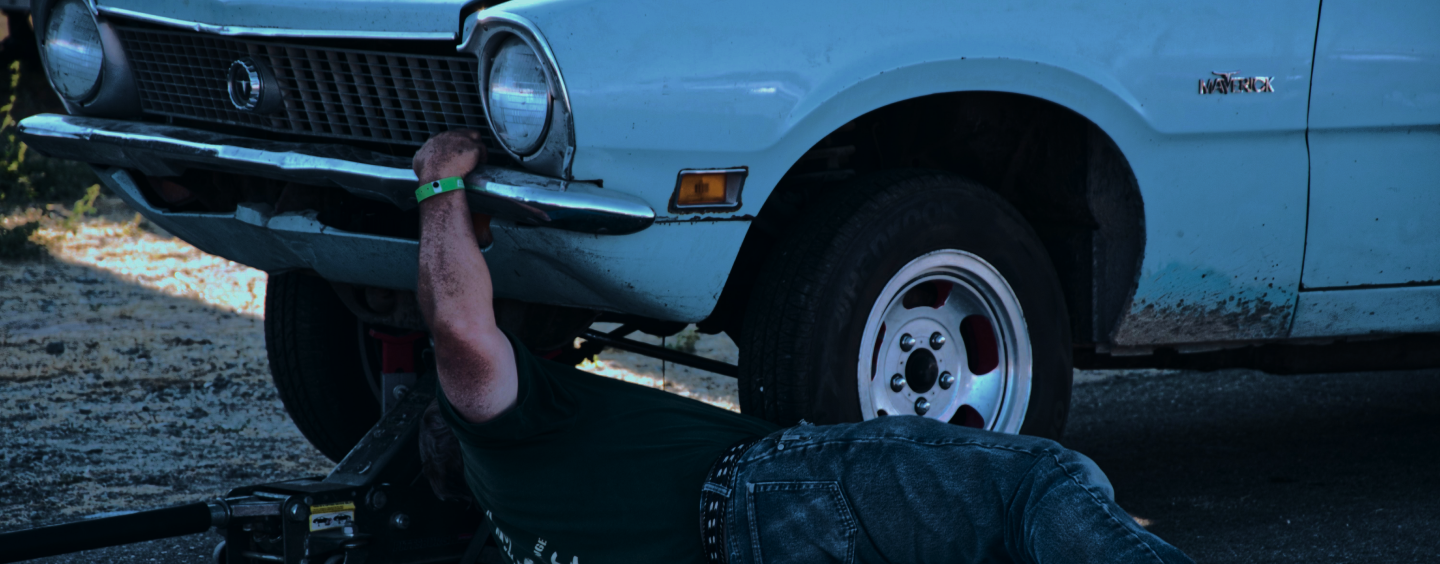
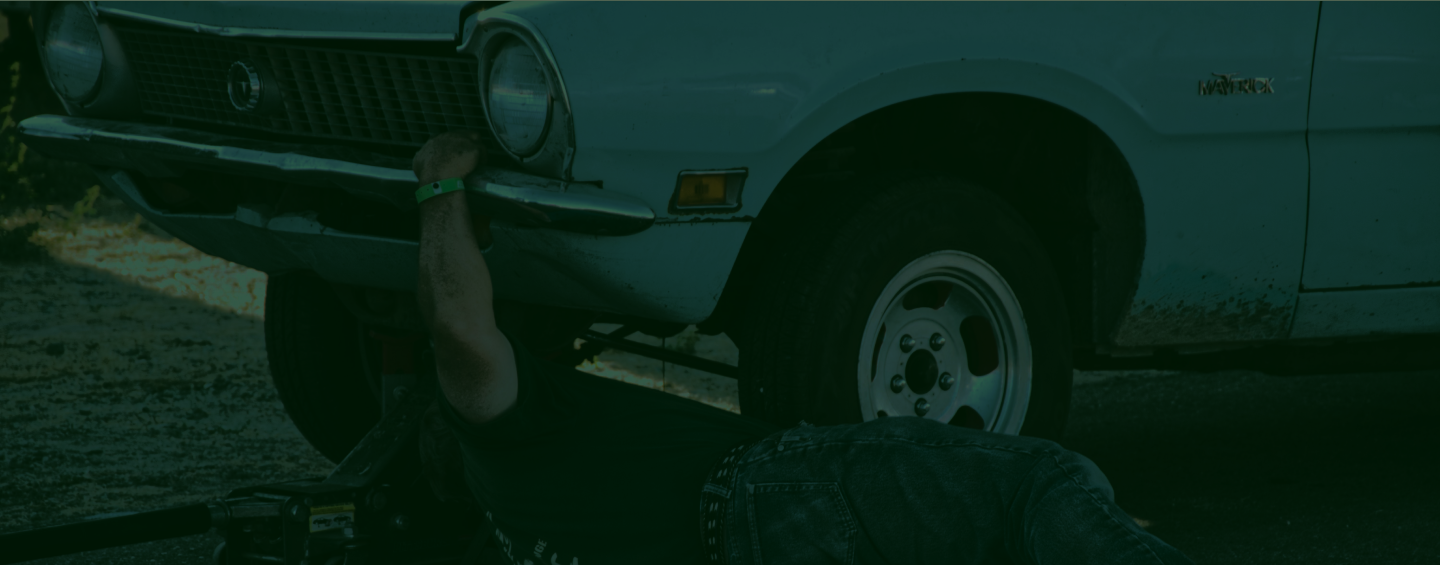
updates

diff --git a/src/components/Paint.jsx b/src/components/Paint.jsx
@@ -7,32 +7,37 @@ function Paint() {
       <h1 className="flex font-bold text-[20px]  justify-center text-[black]">
         Pintura y encerado
       </h1>
-      <Image
-        className="rounded-[0px] h-[430px] lg:h-full"
-        alt="NextUI hero Image"
-        src="/encerado.png"
-      />
-      <p
-        className="absolute text-[14px] lg:text-[18px] top-[80px] lg:top-[70px] lg:w-[600px] lg:left-[60px] p-[10px] text-center"
-        style={{ zIndex: 10 }}
+      <div
+        className="text-center text-[14px] p-[10px] top-[70px] lg:p-[30px] lg:text-[20px] lg:top-[230px] lg:w-[990px] "
+        style={{
+          zIndex: 10,
+          backgroundImage: "url(/encerado.png)",
+          backgroundSize: "cover",
+          backgroundRepeat: "no-repeat",
+        }}
       >
-        La pintura de tu automóvil es su carta de presentación, y en nuestro
-        taller, nos esforzamos por devolverle su brillo y color original.
-        Realizamos reparaciones de pintura, cubriendo desde pequeños arañazos y
-        abolladuras hasta trabajos completos de repintado. Nuestro proceso de
-        pintura cuidadosamente seleccionado garantiza un acabado uniforme y de
-        alta calidad que revitalizará la estética de tu vehículo.
-      </p>
-      <p
-        className="absolute text-[14px] lg:text-[18px] top-[270px] lg:top-[240px] lg:w-[600px] lg:left-[60px] p-[10px] text-center"
-        style={{ zIndex: 10 }}
-      >
-        Además de la pintura,ofrecemos servicios de encerado profesional que no
-        solo realzan la belleza de tu automóvil, sino que también brindan una
-        capa de protección contra los elementos y el desgaste cotidiano. Esto no
-        solo mantiene la apariencia de tu vehículo en su mejor estado,sino que
-        también prolonga su vida útil
-      </p>
+        <p
+          className="text-[14px] lg:text-[18px]  lg:w-[600px] p-[10px] text-center lg:text-left"
+          style={{ zIndex: 10 }}
+        >
+          La pintura de tu automóvil es su carta de presentación, y en nuestro
+          taller, nos esforzamos por devolverle su brillo y color original.
+          Realizamos reparaciones de pintura, cubriendo desde pequeños arañazos
+          y abolladuras hasta trabajos completos de repintado. Nuestro proceso
+          de pintura cuidadosamente seleccionado garantiza un acabado uniforme y
+          de alta calidad que revitalizará la estética de tu vehículo.
+        </p>
+        <p
+          className="text-[14px] lg:text-[18px]  lg:w-[600px] p-[10px] text-center lg:text-left"
+          style={{ zIndex: 10 }}
+        >
+          Además de la pintura,ofrecemos servicios de encerado profesional que
+          no solo realzan la belleza de tu automóvil, sino que también brindan
+          una capa de protección contra los elementos y el desgaste cotidiano.
+          Esto no solo mantiene la apariencia de tu vehículo en su mejor
+          estado,sino que también prolonga su vida útil
+        </p>
+      </div>
     </div>
   );
 }

diff --git a/src/components/Schedules.jsx b/src/components/Schedules.jsx
@@ -1,4 +1,5 @@
 import { Button } from "@nextui-org/button";
+import { Input } from "@nextui-org/react";
 import React from "react";
 
 function Schedules() {
@@ -11,8 +12,8 @@ function Schedules() {
   };
 
   return (
-    <div className=" flex justify-around mb-[20px] mt-[50px] flex-wrap ">
-      <div className=" flex flex-col  w-[300px] lg:w-[400px] lg:left-[30px] ">
+    <div className="flex justify-around mb-[20px] mt-[50px] flex-col lg:flex-row">
+      <div className=" flex flex-col w-full lg:w-[400px] lg:left-[30px] p-[20px]">
         <h1 className="font-bold text-[15px]  text-[black]">Horarios</h1>
         <div className="flex ">
           <p className="mr-[10px] h-[20px] w-[80px]  text-[black]">Lunes:</p>
@@ -37,9 +38,9 @@ function Schedules() {
           <p className=" h-[20px] w-[110px] text-[black]">9 am - 5 pm</p>
         </div>
         <div className="flex ">
-          <p className="mr-[10px] h-[20px] w-[80px]  text-[black]">Sabado:</p>
-          <p className=" h-[20px] w-[290px] text-[black] ">
-            9 am - 2 pm (solo citas agendadas)
+          <p className="mr-[10px] h-[20px] w-[80px] text-[black]">Sabado:</p>
+          <p className=" h-[20px] w-[240px] text-[black] ">
+            9 am - 2 pm (Solo citas)
           </p>
         </div>
         <div className="flex">
@@ -47,11 +48,13 @@ function Schedules() {
           <p className=" h-[20px] w-[110px] text-[black]"> Cerrado</p>
         </div>
       </div>
-      <div className="flex flex-col mb-[20px] lg:mb-[0px]  mt-[40px]">
-        <h1 className="font-bold text-[15px] text-[black]">Contactanos</h1>
-        <input className="mb-[10px]" />
-        <input className="mb-[10px]" />
-        <input className="mb-[10px]" />
+      <div className="flex flex-col mb-[20px] lg:mb-[0px] mt-[40px] lg:mt-[0px] w-full p-[20px] lg:p-[0px]">
+        <h1 className="font-bold text-[15px] text-[black] mb-[10px]">
+          Contactanos
+        </h1>
+        <Input className="mb-[10px]" placeholder="Nombre..." />
+        <Input className="mb-[10px]" placeholder="Teléfono..." />
+        <Input className="mb-[10px]" placeholder="¿Como podemos ayudarte?" />
         <Button onClick={() => sendEmail()}>send email</Button>
       </div>
     </div>

diff --git a/src/components/Tuning.jsx b/src/components/Tuning.jsx
@@ -1,5 +1,4 @@
 import React from "react";
-import { Image } from "@nextui-org/react";
 
 function Tuning() {
   return (
@@ -7,14 +6,14 @@ function Tuning() {
       <h1 className="flex font-bold text-[20px]  justify-center text-[black]">
         Afinación
       </h1>
-      <Image
-        className="rounded-[0px] h-[200px] lg:h-full"
-        alt="NextUI hero Image"
-        src="/balanceo.png"
-      />
       <p
-        className="absolute text-center text-[14px] p-[10px] top-[70px] lg:p-[0px] lg:text-[20px] lg:top-[230px] lg:w-[900px] "
-        style={{ zIndex: 10 }}
+        className="text-center text-[14px] p-[10px] top-[70px] lg:p-[30px] lg:text-[20px] lg:top-[230px] lg:w-[990px] "
+        style={{
+          zIndex: 10,
+          backgroundImage: "url(/balanceo.png)",
+          backgroundSize: "cover",
+          backgroundRepeat: "no-repeat",
+        }}
       >
         En nuestro taller nos enorgullecemos de ofrecer una gama completa de
         servicios de afinacion diseñados para optimizar el rendimiento y la
